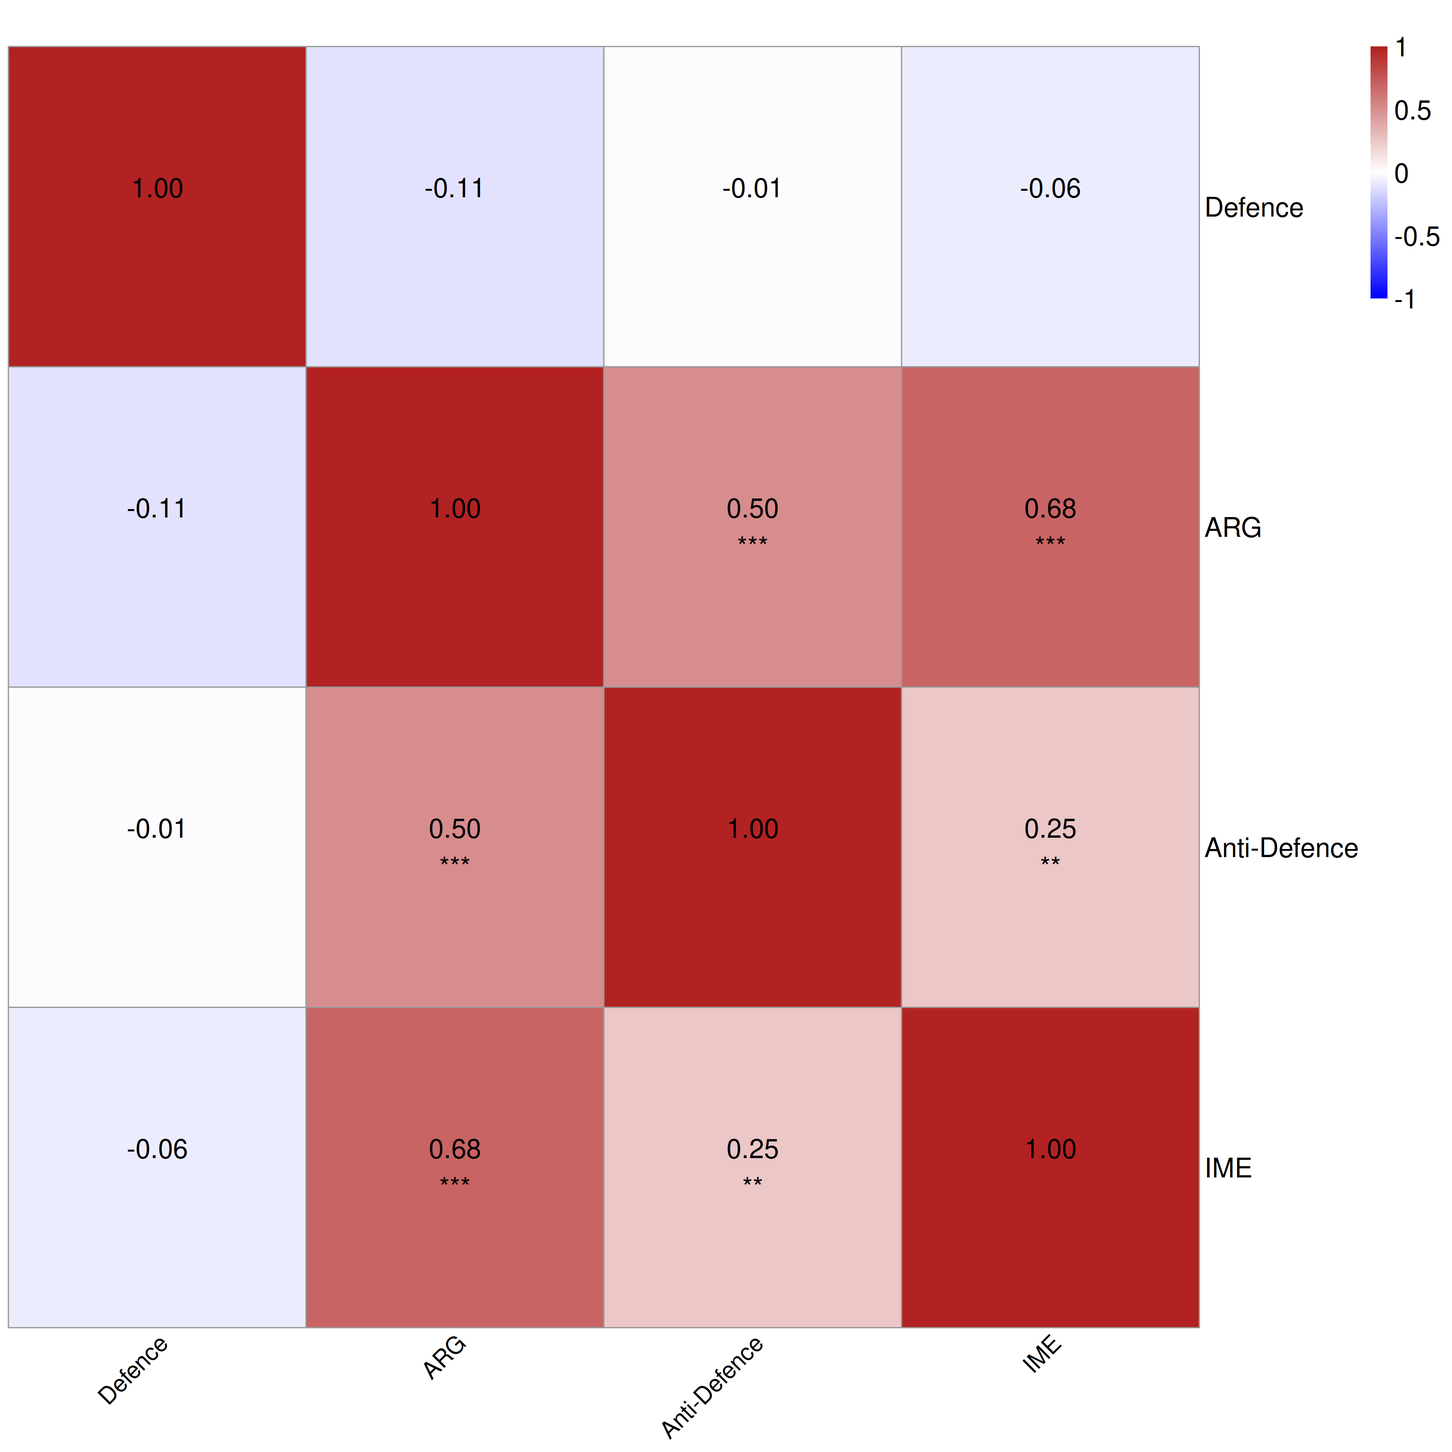
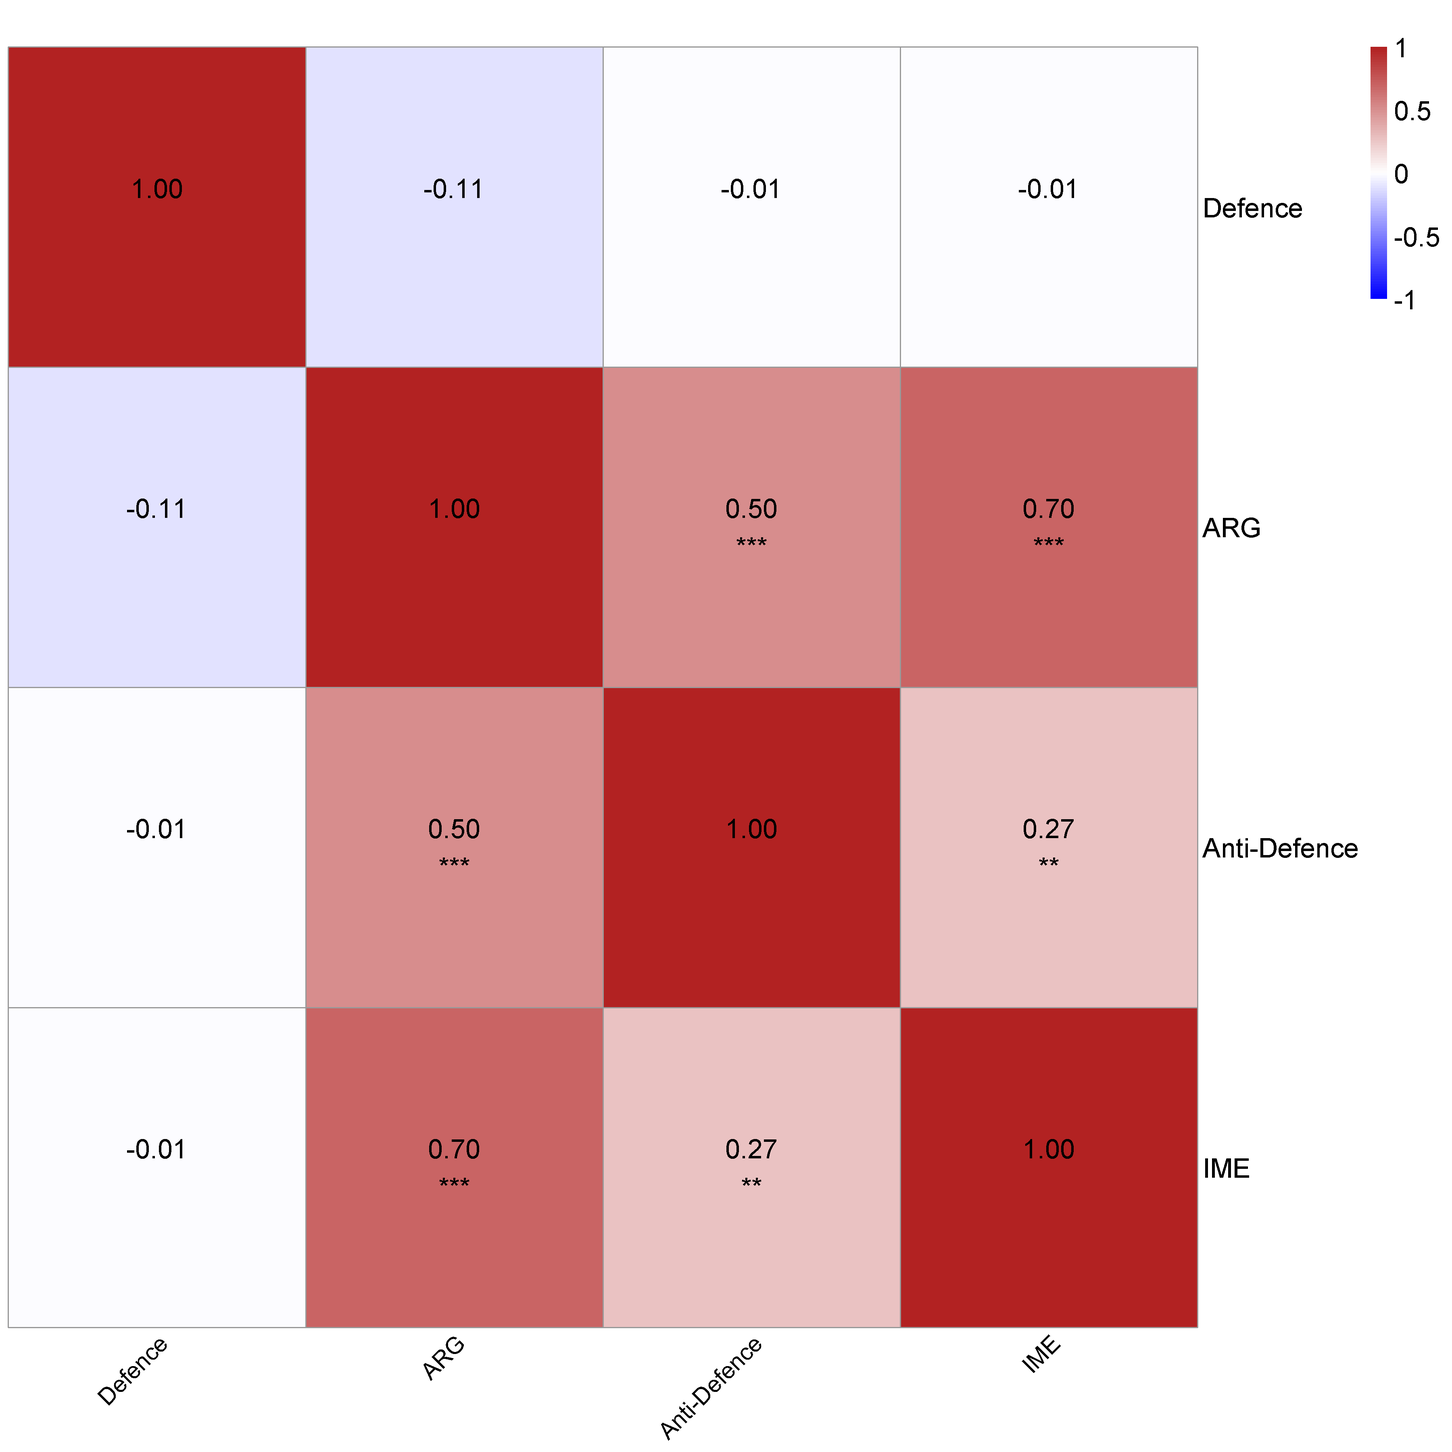
Readme update

diff --git a/README.md b/README.md
@@ -1,20 +1,13 @@
-# Evidence of interplay between niche-specific defence system selection and horizontal genes transfer in Acinetobacter spp. suggests adaptive success in clinical environments 
+# Adaptive trade-offs between niche-driven defence system selection and horizontal gene transfer suggests clinical success in Acinetobacter spp. 
 
 [![License: MIT](https://img.shields.io/badge/License-MIT-yellow.svg)](https://opensource.org/licenses/MIT)
 
 ## Project Overview
 
-This repository contains the code, analysis, and findings on bacterial defence systems in *Acinetobacter* species, with a focus on their relationship to antimicrobial resistance and mobile genetic elements.
+This repository investigates the complex interplay between bacterial defense systems and antimicrobial resistance in Acinetobacter species. Our analysis reveals how clinical pathogens balance phage protection with genetic plasticity, providing insights into resistance evolution and potential therapeutic targets.
 
-*Acinetobacter baumannii* has emerged as a significant healthcare challenge due to its remarkable ability to acquire antimicrobial resistance. This project investigates the complex landscape of bacterial defence systems across different *Acinetobacter* species, examining how these systems might influence the acquisition and maintenance of resistance determinants.
+**Clinical Significance:** *A. baumannii* has emerged as a critical healthcare threat due to its exceptional ability to acquire resistance. Understanding defense system trade-offs is essential for predicting resistance patterns and developing targeted interventions.
 
-## Key Research Objectives
-
-- Map the distribution and organization of defence systems across *Acinetobacter* species
-- Compare defence system predictions between DefenseFinder and PADLOC bioinformatic tools
-- Analyze species-specific variations in defence strategies between *A. baumannii*, *A. pittii*, and other *Acinetobacter* species
-- Explore correlations between defence systems and antibiotic resistance genes
-- Investigate relationships between defence systems and mobile genetic elements
 
 ## Dataset
 
@@ -28,7 +21,7 @@ The analysis was performed on two distinct datasets:
 - `code/`: R and Bash scripts for computational analysis
 - `data/`: Metadata about genomes and example datasets
 - `results/`: Key figures and findings
-- `docs/`: Additional documentation including thesis summary
+- `environment/`: Conda environment files
 
 ## Methodology Overview
 
@@ -48,6 +41,7 @@ The bioinformatic workflow involved:
 - [DefenseFinder](https://github.com/mdmparis/defense-finder)
 - [PADLOC](https://github.com/padlocbio/padloc)
 - [ResFinder](https://github.com/genomicepidemiology/resfinder)
+- [CasFinder](https://github.com/macsy-models/CasFinder)
 - NCBI E-utilities (for genome download)
 
 ## Installation
@@ -60,282 +54,25 @@ The bioinformatic workflow involved:
 DefenseFinder: Follow instructions at [DefenseFinder](https://github.com/mdmparis/defense-finder)
 PADLOC: Follow instructions at [PADLOC](https://github.com/padlocbio/padloc)
 Resfinder : Follow instructions at [Resfinder](https://github.com/genomicepidemiology/resfinder)
+Casfinder : Follow instructions at [Casfinder](https://github.com/macsy-models/CasFinder)
 
 
 ### Key Findings
 
-### 1. Defense System Distribution and Tool Comparison
-![image](results/figures/defense_system_distribution_comparison.png)
-
-**DefenseFinder vs. PADLOC Detection Patterns**:
-- DefenseFinder identifies 3-6 defense systems per genome (mean = 5.0), with most genomes clustering around 4 systems
-- PADLOC detects higher counts (mean = 8.6), with a broader distribution extending up to 20 systems per genome
-- Both tools converge on RM systems as the most prevalent defense mechanism, but show quantitative differences in detection sensitivity
-
-### 2. Restriction-Modification Systems Dominate the Defense Landscape
-![image](results/figures/defense_system_prevalence_comparison.png)
-
-**Universal RM Prevalence**:
-- RM systems are detected in 102/132 genomes (77.3%) by DefenseFinder, making them the overwhelmingly dominant defense mechanism
-- PADLOC identifies RM_type_I in 74/132 genomes (56.1%), confirming RM system prevalence across tools
-- RM systems serve as the conserved baseline defense across all *Acinetobacter* species
-
-### 3. Species-Specific Defense System Profiles
-![image](results/figures/defense_systems_by_species_simple.png)
-
-**A. baumannii Defense Signature**:
-
-- Enriched in Gao_Qat (17 genomes), SspBCDE (16 genomes), and PD-T7-5 (16 genomes) systems
-- SspBCDE emerges as a cornerstone system, frequently occurring as the sole defense mechanism in clinical isolates (47.8% of contig assemblies)
-
-**A. pittii Defense Profile**:
-- Characterized by CBASS (10 genomes) and Septu (9 genomes) systems
-- Notably lacks SspBCDE enrichment, distinguishing it from *A. baumannii*
-- Shows different secondary defense strategies compared to its close relative
-
-**Other Acinetobacter Species**:
-- Maintain high RM system prevalence (57 genomes) as baseline defense
-- Display more diverse secondary defense profiles including CBASS, RosmerTA, and Cas systems
-
-### 4. Complex Defense System Co-occurrence Networks
-
-#### Network Topology and System Interconnectivity
-![image](results/figures/defensefinder_cooccur_circos.png)
-
-**Circos Network Visualization Reveals Defense System Architecture**:
-- **RM System Dominance**: The largest sector in the network represents RM systems, with extensive connections to multiple other defense systems, confirming their role as the central hub in the *Acinetobacter* defense network
-- **Secondary System Clusters**: Gao_Qat, CBASS, Gabija, and PD-T7-5 form distinct network nodes with varying degrees of connectivity
-- **Interconnection Density**: The network shows dense interconnections between certain system pairs, indicating frequent co-occurrence patterns that exceed random expectation
-- **Sector Size Proportional to Prevalence**: Visual sector sizes directly correspond to system prevalence (RM: 102 genomes, RosmerTA: 37 genomes, Cas: 30 genomes), providing immediate insight into defense system hierarchy
-
-#### Statistical Co-occurrence Matrix Analysis
-![image](results/figures/defensefinder_cooccur_matrix.png)
-
-**Significant Positive Associations (Cooperative Defense Systems)**:
-- **Gao_Qat Network**: Shows multiple significant positive associations across the matrix (red circles with yellow backgrounds)
-  - Strong co-occurrence with PD-T7-5, PD-T4-5, and multiple secondary systems
-  - Suggests functional compatibility and potential synergistic protection mechanisms
-- **CBASS-Retron Partnership**: Statistically significant positive association (log₂OR: 2.02, p<0.05) indicates these systems frequently co-occur, possibly targeting different stages of phage infection
-- **SspBCDE Associations**: Multiple positive correlations with various defense systems, supporting its role as a cornerstone system that integrates well with other defense mechanisms
-
-**Significant Negative Associations (Mutually Exclusive Systems)**:
-- **RM System Exclusivity**: Strong negative correlations (blue circles) with multiple secondary systems:
-  - RM vs. PD-T7-5: log₂OR = -3.01 (p<0.05) - suggests functional redundancy or metabolic incompatibility
-  - RM vs. Gao_Qat: log₂OR = -3.74 (p<0.05) - indicates alternative evolutionary strategies
-- **Matrix Diagonal Significance**: Self-associations (diagonal elements) show maximum significance, validating the analytical approach
-- **RloC Antagonism**: Negative correlations with multiple systems suggest this nuclease-based defense may conflict with other mechanisms
-
-
-### 5. Defense System-Antibiotic Resistance Relationships
-
-![image](results/figures/defence_arg_correlation.png)
-
-#### Hierarchical Clustering Reveals Functional Defense System Groups
-
-**ARG-Facilitative Defense Systems (Top Cluster)**:
-The correlation heatmap with hierarchical clustering reveals a distinct cluster of defense systems that consistently show positive associations with antibiotic resistance genes:
-
-- **Gao_Qat Systems**: The most ARG-associated defense system showing significant positive correlations with:
-  - Tetracycline resistance: *tetB* (***p<0.001) - strongest association
-  - Aminoglycoside resistance: *armA* (***p<0.001), *aph3-Ia* (*p<0.05), *aadA1* (**p<0.01)
-  - β-lactam resistance: *blaOXA-66* (*p<0.05), *blaOXA-23* (**p<0.01)
-  - Sulfonamide resistance: *sul1* (**p<0.01), *sul2* (*p<0.05)
-  - β-lactamase: *blaTDC-25* (*p<0.05)
-
-- **SspBCDE Systems**: Show broad positive associations across multiple ARG classes:
-  - Strong correlations with *tetB*, *armA*, *aadA1*, and β-lactamase genes
-  - Consistent pattern of ARG facilitation across resistance categories
-  - Statistical significance (***p<0.001 to *p<0.05) across multiple associations
-
-- **PD-T7-5 and PD-T4-5 Systems**: Cluster together with moderate positive correlations:
-  - Selective associations with specific ARGs rather than broad spectrum
-  - Particularly strong with certain β-lactamase and aminoglycoside resistance genes
-
-#### ARG-Restrictive Defense Systems (Bottom Cluster)
-
-**RM Systems: The Primary ARG Barrier**:
-- **Contrasting Pattern**: RM systems show the opposite correlation pattern (blue coloring) compared to the ARG-facilitative cluster
-- **Broad Negative Associations**: Significant negative correlations with the same ARGs that positively associate with Gao_Qat/SspBCDE
-- **Statistical Significance**: Multiple highly significant negative associations (**p<0.01 to ***p<0.001)
-- **Functional Interpretation**: Act as barriers to horizontal acquisition of resistance determinants
-
-**Intermediate Defense Systems**:
-- **Neutral/Variable Associations**: Systems like Retron, AbiH, Paris show weaker or variable correlations
-- **Selective Patterns**: Some systems show positive associations with specific ARG types while being neutral to others
-- **Functional Diversity**: Suggests different mechanisms of interaction with mobile genetic elements carrying ARGs
-
-#### Statistical Robustness and Clustering Validation
-
-**Multiple Testing Correction**:
-- **FDR Correction Applied**: All p-values adjusted for multiple comparisons using Benjamini-Hochberg procedure
-- **Effect Sizes**: Correlation coefficients range from strong negative (-0.7) to strong positive (+0.8)
-
-
-### 6. Defense System-Mobile Genetic Element Interactions
-
-![image](results/figures/defence_protein_correlation.png)
-
-#### Hierarchical Clustering Reveals Mobile Element Processing Strategies
-
-**IME-Facilitative Defense Systems (Middle Blue Cluster)**:
-The correlation analysis reveals a distinct cluster of defense systems that show positive associations with integrative mobile element (IME) proteins, indicating facilitated horizontal gene transfer:
-
-- **SspBCDE Systems: The Primary IME Facilitator**:
-  - **Strongest Associations**: Shows highly significant positive correlations (***p<0.001) across all major IME protein functions
-  - **Transposase Compatibility**: Strong associations with Tnp25, Tnp26, Tnp28 transposases
-  - **Broad Spectrum**: Positive correlations with putative transposases (202-putative, 200-putative) and specialized functions (198-IS26, 196-transposase)
-  - **Biological Significance**: Indicates SspBCDE systems actively facilitate or tolerate mobile element integration
-
-- **Gao_Qat Systems: Selective IME Processing**:
-  - **Moderate Positive Associations**: Consistent (**p<0.01) positive correlations across IME protein categories
-  - **Functional Selectivity**: Particularly strong associations with specific transposase types
-  - **Integration with ARG Data**: Matches the pattern seen with antibiotic resistance genes, confirming coordinated facilitation
-
-- **PD-T7-5 and PD-T4-5 Systems: Auxiliary IME Facilitators**:
-  - **Coordinated Pattern**: Both systems show similar (*p<0.05) positive association profiles
-  - **Functional Clustering**: Hierarchical clustering groups these systems together, indicating similar mechanisms
-  - **Complementary Function**: May provide additional layers of mobile element tolerance
-
-#### IME-Restrictive Defense Systems (Top Red and Bottom Pink Clusters)
-
-**Lamassu-Fam and Mokosh: Specialized IME Restrictors**:
-- **Strong Negative Associations**: Intense red coloring with high statistical significance (**p<0.01) across most IME protein functions
-- **Broad Spectrum Restriction**: Negative correlations with multiple transposase types and mobile element proteins
-- **Functional Specialization**: These systems may have evolved specifically to counter mobile genetic element activity
-- **Contrasting Strategy**: Opposite approach to SspBCDE cluster, representing alternative evolutionary solutions
-
-**RM Systems: Universal Mobile Element Barriers**:
-- **Consistent Negative Pattern**: Significant negative associations (**p<0.01) across all IME protein categories
-- **Non-specific Restriction**: Broad-spectrum negative correlations indicate general foreign DNA restriction
-- **Classical Function**: Aligns with traditional understanding of RM systems as barriers to horizontal gene transfer
-- **Statistical Robustness**: High significance levels across multiple IME protein types
-
-**CBASS Systems: Moderate IME Restriction**:
-- **Selective Negative Associations**: Weaker but significant (*p<0.05) negative correlations
-- **Intermediate Strategy**: Less restrictive than RM systems but still generally antagonistic to mobile elements
-
-#### IME Protein Functional Categories and Defense System Specificity
-
-**Transposase Enzyme Families**:
-- **Tnp25/Tnp26/Tnp28 Series**: Major transposase families showing coordinated association patterns
-  - SspBCDE: Strong positive associations across all three
-  - RM systems: Consistent negative associations
-  - Functional clustering indicates these transposases have similar integration mechanisms
-
-**Putative Transposases (202-putative, 200-putative)**:
-- **Uncharacterized Functions**: Defense system associations may help predict functional roles
-- **Evolutionary Relationships**: Similar association patterns to characterized transposases suggest related functions
-- **Discovery Potential**: Defense system correlations could guide functional annotation efforts
-
-**Specialized Mobile Element Proteins**:
-- **IS26 Transposases**: Insertion sequence elements with specific integration preferences
-- **196-transposase and 169-transposase**: Distinct transposase families with unique association profiles
-- **Functional Diversity**: Different transposase types show varying compatibility with defense systems
-
-### 7. Integrated Genomic Architecture: Cross-Element Correlations
-
-![image](results/figures/final_correlation.png)
-
-#### System-Level Correlation Matrix Reveals Fundamental Genomic Trade-offs
-
-**Defense Systems as Universal Barriers**:
-The correlation matrix between genomic element counts reveals defense systems' role as broad-spectrum barriers to foreign genetic material:
-
-- **Defense vs. ARG Relationship**: Weak negative correlation (r = -0.11)
-  - Indicates defense systems generally restrict antibiotic resistance gene acquisition
-  - Consistent with previous findings showing RM systems' restrictive effects
-  - Represents the cost of maintaining comprehensive phage defense
-
-- **Defense vs. IME Relationship**: Weak negative correlation (r = -0.07)
-  - Defense systems moderately restrict integrative mobile element accumulation
-  - Aligns with detailed IME-defense system analysis showing restriction patterns
-  - Suggests defense systems limit horizontal gene transfer vectors
-
-- **Defense vs. Anti-Defense Relationship**: Essentially neutral (r = -0.01)
-  - Near-zero correlation indicates independent accumulation patterns
-  - May reflect different selective pressures acting on these system types
-  - Suggests anti-defense systems operate through different mechanisms than direct interference
-
-#### Mobile Genetic Elements Drive Resistance Dissemination
-
-**ARG-IME Co-mobilization**: Strongest positive correlation (r = 0.69, ***p<0.001)
-- **Biological Significance**: Very strong correlation confirms IMEs as primary vehicles for ARG dissemination
-- **Clinical Relevance**: Highest correlation coefficient in the matrix indicates tight functional coupling
-- **Mechanistic Basis**: Physical linkage of resistance genes on mobile genetic elements
-- **Evolutionary Implication**: Co-selection maintains both resistance genes and their mobilization machinery
-
-**Statistical Robustness**:
-- **Highest significance level** (***p<0.001) indicates extremely reliable association
-- **Large effect size** (r = 0.69) suggests substantial biological importance
-- **Clinical prediction**: IME abundance can predict ARG load in clinical isolates
-
-#### Anti-Defense Systems Facilitate Genetic Plasticity
-
-**Anti-Defense as HGT Facilitators**:
-- **Anti-Defense vs. ARG**: Moderate positive correlation (r = 0.50, ***p<0.001)
-  - Strong statistical significance indicates reliable association
-  - Anti-defense systems promote resistance gene acquisition
-  - Mechanistic explanation: counteract host defense systems that would otherwise restrict ARG uptake
-
-- **Anti-Defense vs. IME**: Weak-moderate positive correlation (r = 0.26, **p<0.01)
-  - Statistically significant association supports facilitatory role
-  - Anti-defense systems enable mobile element integration
-  - Lower correlation than ARG association suggests indirect relationship
-
-#### Quantitative Framework for Genomic Element Interactions
-
-**Correlation Strength Interpretation**:
-- **Strong Positive (r > 0.6)**: ARG-IME relationship represents tight functional coupling
-- **Moderate Positive (r = 0.3-0.6)**: Anti-Defense-ARG relationship indicates significant biological interaction
-- **Weak Correlations (r < 0.3)**: Defense system relationships suggest subtle but consistent effects
-- **Near-Zero Correlations**: Defense-Anti-Defense relationship indicates independent dynamics
-
-**Statistical Significance Hierarchy**:
-- **Highest Significance (***p<0.001)**: ARG-IME and Anti-Defense-ARG correlations
-- **High Significance (**p<0.01)**: Anti-Defense-IME correlation
-- **Non-significant relationships**: All defense system correlations (indicating general restrictive effects rather than specific associations)
-
-#### Evolutionary and Clinical Implications
-
-**Genomic Architecture Models**:
-
-1. **Conservative Genome Architecture**:
-   - High defense system counts
-   - Low ARG, IME, and anti-defense system counts
-   - Emphasis on phage protection over genetic plasticity
-   - Represented by RM-dominant genomes
-
-2. **Plastic Genome Architecture**:
-   - Moderate defense system counts (selective systems like SspBCDE/Gao_Qat)
-   - High ARG and IME counts
-   - Elevated anti-defense system presence
-   - Optimized for rapid adaptation in clinical environments
-
-**Network-Level Understanding**:
-- **Hub Elements**: IMEs might serve as central hubs connecting resistance genes and facilitating mechanisms
-- **Barrier Elements**: Defense systems may play an important role as network barriers reducing overall connectivity
-- **Facilitator Elements**: Anti-defence systems could facilitate increase network connectivity and gene flow
-
-#### Statistical Framework and Methodology
-
-**Spearman Rank Correlation Justification**:
-- **Non-parametric approach**: Appropriate for count data without distributional assumptions
-- **Robust to outliers**: Resistant to extreme values in genomic element counts
-- **Ordinal relationships**: Captures monotonic relationships regardless of linearity
-
-**Multiple Testing Considerations**:
-- **Bonferroni correction applied**: Conservative approach for multiple correlation testing
-
-### 8. IC2 Clone-Specific Defense Architecture
-
-**Reduced Defense Complexity**:
-- IC2 clones carry significantly fewer defense systems (1-2 per genome) compared to other *A. baumannii* strains (~5 systems)
-- SspBCDE system predominates in IC2 clones, often as the sole defense mechanism
-- Correlates with enhanced antibiotic resistance gene carriage (average 17.1 ARGs per genome)
-
-**Global Clinical Success**:
-- Minimal restriction barriers may facilitate rapid resistance acquisition through horizontal gene transfer
-- Trade-off between comprehensive phage defense and genetic plasticity may explain IC2's pandemic success
+| Finding | Impact | Clinical Relevance |
+|---------|--------|-------------------|
+| **IC2 Defense Specialization** | IC2 clones carry specialized SspBCDE systems | Explains pandemic success of clinical lineage |
+| **Defense-Resistance Trade-offs** | RM systems restrict resistance acquisition | Potential targets for resistance modulation |
+| **Mobile Element Networks** | Defense systems regulate HGT dynamics | Insights for phage therapy design |
+| **Species-Specific Patterns** | Distinct defense profiles across species | Species-targeted therapeutic strategies |
+
+### 🔬 Core Discoveries
+
+- **132 genomes analyzed** across 18 *Acinetobacter* species with comprehensive defense system mapping
+- **Novel IC2 adaptations**: Streamlined defense architecture (1-2 systems vs. ~5 in other strains) facilitates resistance acquisition
+- **Defense system trade-offs**: Restriction-Modification systems inversely correlate with antibiotic resistance genes (r = -0.11)
+- **Mobile element facilitation**: SspBCDE and Gao_Qat systems show positive associations with horizontal gene transfer
+- **Statistical rigor**: Correlation analyses with multiple testing correction reveal robust genomic patterns
 
 ## Citation
 
